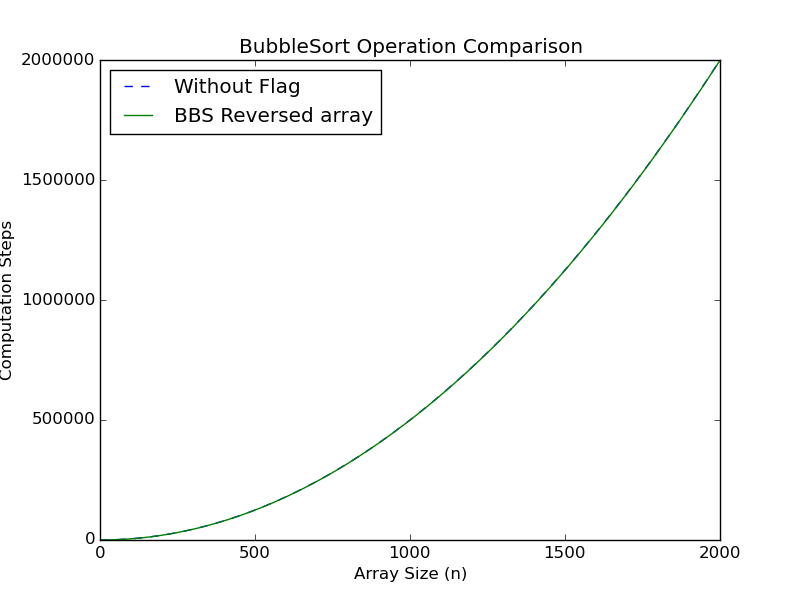
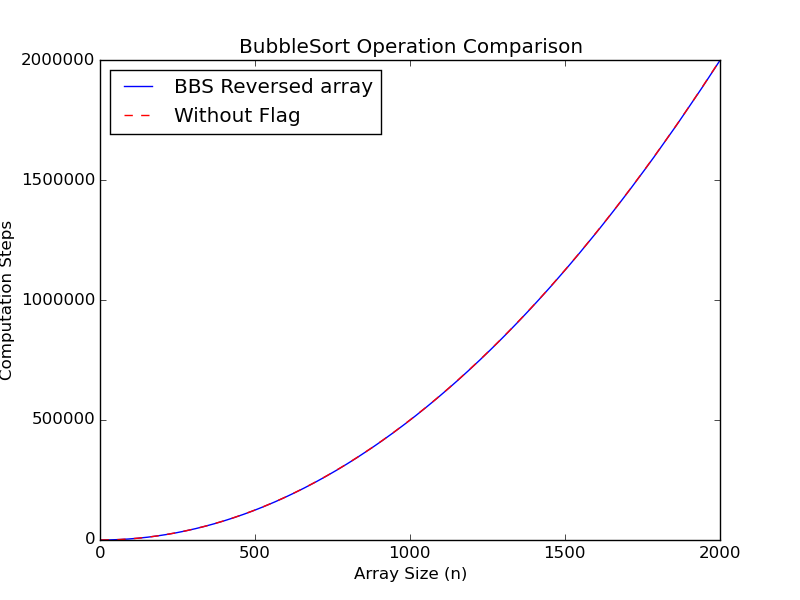
Better Plots

diff --git a/Code/Python/plotting.py b/Code/Python/plotting.py
@@ -45,8 +45,8 @@ plt.savefig("../../Report/Ordered.png")
 
 
 plt.figure(3)
-plt.plot(n,Ave_noFlag,linestyle='--',label="Without Flag")
 plt.plot(n,rev,label = "BBS Reversed array")
+plt.plot(n,Ave_noFlag,'r',linestyle='--',label="Without Flag")
 plt.legend(loc=2)
 plt.title('BubbleSort Operation Comparison')
 plt.ylabel('Computation Steps')
